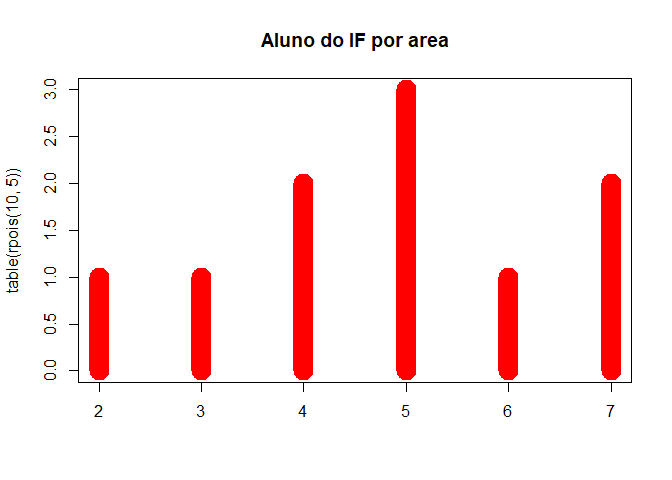
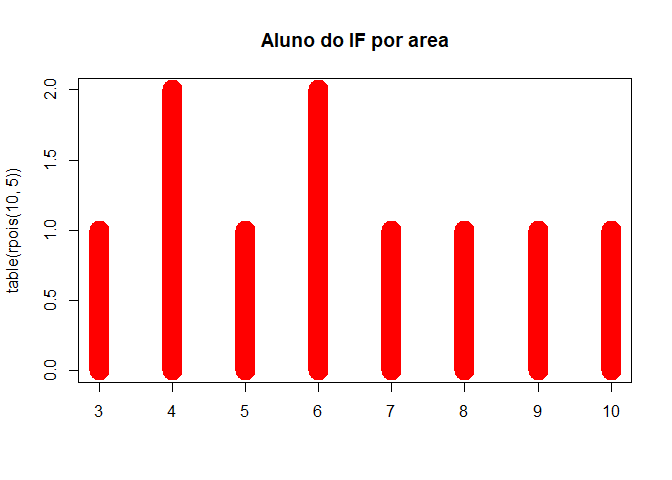
teste3

diff --git a/plotly.md b/plotly.md
@@ -9,6 +9,8 @@ Instalar via CRAN.
     plot(table(rpois(10, 5)), type = "h", col = "red", lwd = 20,
          main = "Aluno do IF por area")
 
+![](plotly_files/figure-markdown_strict/unnamed-chunk-2-1.png)
+
 ![](plotly_files/figure-markdown_strict/pressure-1.png)
 
 # Uso da função plot\_ly()
